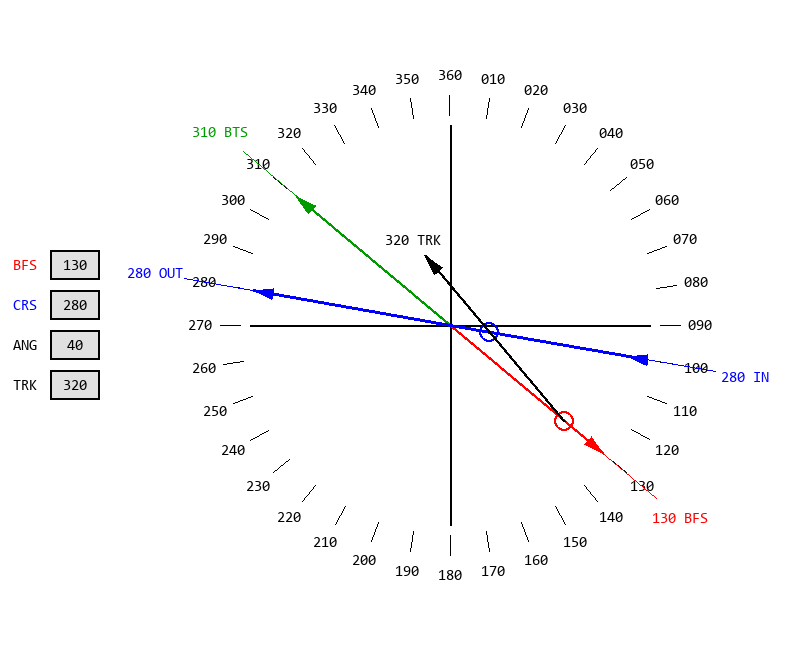
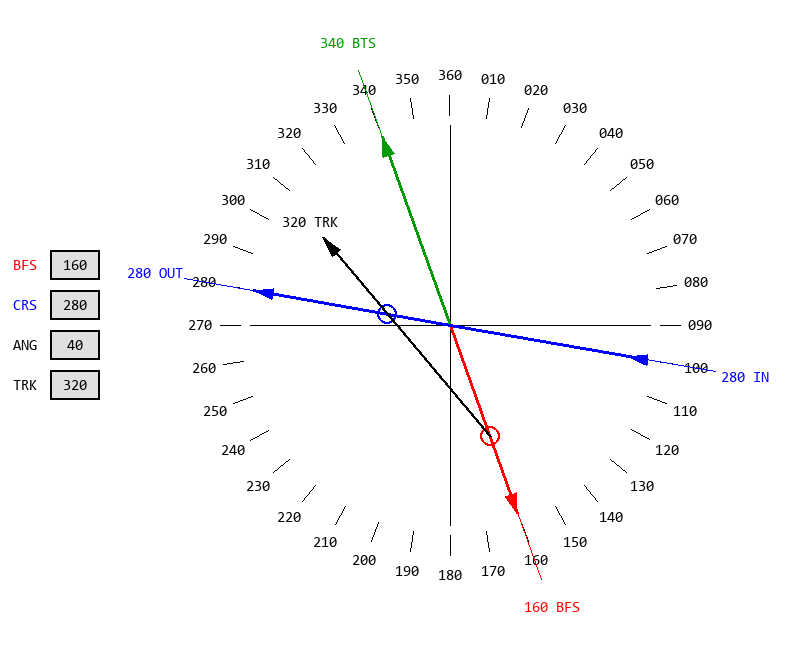
aircraft position can be dragged

diff --git a/vor_intercepts.py b/vor_intercepts.py
@@ -17,15 +17,33 @@ O = (Ox, Oy)
 arrow_ht = 20
 arrow_angle = 30
 RADIAL = 130 #aircraft position
+R = 150 #aircraft position
 COURSE = 280 #intercept course
 ANGLE = 40 #intercept angle
 TRACK = 0 #place holder
 myFont = pygame.font.SysFont("Consolas", 15)
 
-#coordinate transformations from top left with y down to origin with y up
+#coordinate transformations from origin with y up to top left with y down
+#for drawing
 def x(x): return(Ox + x)
 def y(y): return(Oy - y)
 def xy(xy): return((x(xy[0]),y(xy[1])))
+
+#coordinate transformations to origin with y up from top left with y down
+def _x(x): return(-Ox + x)
+def _y(y): return(Oy -y)
+def _xy(xy): return((_x(xy[0]),_y(xy[1])))
+
+def xcomp(r, theta):
+    #x component of polar coords
+    return(r*(math.sin(math.radians(theta))))
+
+def ycomp(r, theta):
+    #y component of polar coords
+    return(r*(math.cos(math.radians(theta))))
+
+def xy_to_rtheta(x,y):
+    return(math.sqrt(x**2+y**2), math.degrees(math.atan2(x, y)))
 
 Radialtxt = str(RADIAL)
 Coursetxt = str(COURSE)
@@ -35,12 +53,21 @@ Tracktxt = str(TRACK)
 screen = pygame.display.set_mode((Width, Height))
 pygame.display.set_caption("Radio Navigation Intercepts")
 
-#define input rects
+def get_pos_rect(r, theta):
+    left = x(xcomp(r, theta)) - 10
+    top = y(ycomp(r, theta)) - 10
+    position_rect = pygame.Rect(left, top, 2*10, 2*10)
+    return(position_rect)
+
+#define input box rects
 w, h = 50, 30
 radial_rect = pygame.Rect(50, y(+60) -h/2, w, h)
 course_rect = pygame.Rect(50, y(+20) -h/2, w, h)
 angle_rect = pygame.Rect(50, y(-20) -h/2, w, h)
 track_rect = pygame.Rect(50, y(-60) -h/2, w, h)
+POS_rect = get_pos_rect(R, RADIAL)
+
+
 
 # Colors
 white = pygame.Color("white")
@@ -77,19 +104,12 @@ def draw_input_box(rect, text, active, label, textcol):
     draw_text(label, myFont, textcol, pos_center_offset)
 
 
-def xcomp(r, theta):
-    #x component of polar coords
-    return(r*(math.sin(math.radians(theta))))
-
-def ycomp(r, theta):
-    #y component of polar coords
-    return(r*(math.cos(math.radians(theta))))
 
 def draw_compass_card():
     # Draw a basic compass card
     r = 200
-    pygame.draw.line(screen, black, (x(0), y(-r)), (x(0), y(r)), width = 2)  # N/S
-    pygame.draw.line(screen, black, (x(-r), y(0)), (x(r), y(0)), width = 2)  # E/W
+    pygame.draw.line(screen, black, (x(0), y(-r)), (x(0), y(r)), width = 1)  # N/S
+    pygame.draw.line(screen, black, (x(-r), y(0)), (x(r), y(0)), width = 1)  # E/W
 
 def rotate(point, origin, rotation):
     #rotation in degrees
@@ -276,7 +296,7 @@ def get_intercept(R, theta, course, intercept=90):
     pygame.draw.circle(screen, blue, xy(intercept), radius = 10, width = 2)
     pygame.draw.line(screen, black, xy(a), xy(intercept_ext), width = 3)
 
-    #draw arrow head
+    #draw arrowhead
     angle = math.radians(arrow_angle)  #opening angle
     dx = arrow_ht * math.tan(angle/2)
 
@@ -301,7 +321,7 @@ def get_intercept(R, theta, course, intercept=90):
 
 
 def formatnum(num):
-    return "{:03d}".format(num)
+    return "{:03d}".format(round(num))
 
 def take_screenshot():
     # Get the path to save the screenshot
@@ -340,9 +360,11 @@ def gameloop():
     global COURSE, Coursetxt, Course_active
     global ANGLE, Angletxt, Angle_active
     global TRACK, Tracktxt
+    global R, POS_rect
 
     clock = pygame.time.Clock()
     running = True
+    dragging = False
 
     while running:
         for event in pygame.event.get():
@@ -369,12 +391,31 @@ def gameloop():
                 elif angle_rect.collidepoint(mos_pos):
                     print("angle click")
                     Angle_active = True
+                elif POS_rect.collidepoint(mos_pos):
+                    print("position click")
+                    print(mos_pos)
+                    dragging = True
+
+            elif dragging and event.type == pygame.MOUSEBUTTONUP:
+                dragging = False
+                POS_rect = get_pos_rect(R, RADIAL)
+                print("unclick")
+
+            elif event.type == pygame.MOUSEMOTION:
+                if dragging:
+                    mouse_x, mouse_y = _xy(event.pos)
+                    pos = xy_to_rtheta(mouse_x, mouse_y)
+                    R = pos[0]
+                    RADIAL = mod360(pos[1])
+                    print(R, RADIAL)
 
             #need to make this a function
             if event.type == pygame.KEYDOWN:
                 if Radial_active:
                     if event.key == pygame.K_RETURN or event.key == pygame.K_KP_ENTER:
                         Radial_active = False
+                        RADIAL = get_radial_from_text(Radialtxt)
+                        POS_rect = get_pos_rect(R, RADIAL)
                     elif event.key == pygame.K_BACKSPACE:
                         Radialtxt = ""
                     else:
@@ -385,6 +426,7 @@ def gameloop():
                 elif Course_active:
                     if event.key == pygame.K_RETURN or event.key == pygame.K_KP_ENTER:
                         Course_active = False
+                        COURSE = get_radial_from_text(Coursetxt)
                     elif event.key == pygame.K_BACKSPACE:
                         Coursetxt = ""
                     else:
@@ -395,6 +437,7 @@ def gameloop():
                 elif Angle_active:
                     if event.key == pygame.K_RETURN or event.key == pygame.K_KP_ENTER:
                         Angle_active = False
+                        ANGLE = get_radial_from_text(Angletxt)
                     elif event.key == pygame.K_BACKSPACE:
                         Angletxt = ""
                     else:
@@ -405,24 +448,20 @@ def gameloop():
 
         if not Radial_active:
             #update radial
-            RADIAL = get_radial_from_text(Radialtxt)
             Radialtxt = str(RADIAL)
 
         if not Course_active:
             #update course
-            COURSE = get_radial_from_text(Coursetxt)
             Coursetxt = str(COURSE)
 
         if not Angle_active:
             #update angle
-            ANGLE = get_radial_from_text(Angletxt)
             Angletxt = str(ANGLE)
 
         Radialtxt = process_radial_text(Radialtxt)
         Coursetxt = process_radial_text(Coursetxt)
         Angletxt = process_radial_text(Angletxt)
         Tracktxt = process_radial_text(str(mod360(TRACK)))
-
 
         # Clear the screen
         screen.fill(white)
@@ -464,8 +503,8 @@ def gameloop():
         draw_arrow(COURSE, arrow_len, False, True, blue, "OUT", 3)
         draw_arrow(COURSE, line_len, False, False, blue, "", 1)
 
-        draw_position(RADIAL, 150, 20)
-        get_intercept(150, RADIAL, COURSE, ANGLE)
+        draw_position(radial = RADIAL, distance = R, heading = 80) #make this dynamic
+        get_intercept(R = R, theta = RADIAL, course = COURSE, intercept = ANGLE) #this also plots the intercept
 
         draw_input_box(radial_rect, Radialtxt, Radial_active, "BFS", red)
         draw_input_box(course_rect, Coursetxt, Course_active, "CRS", blue)
